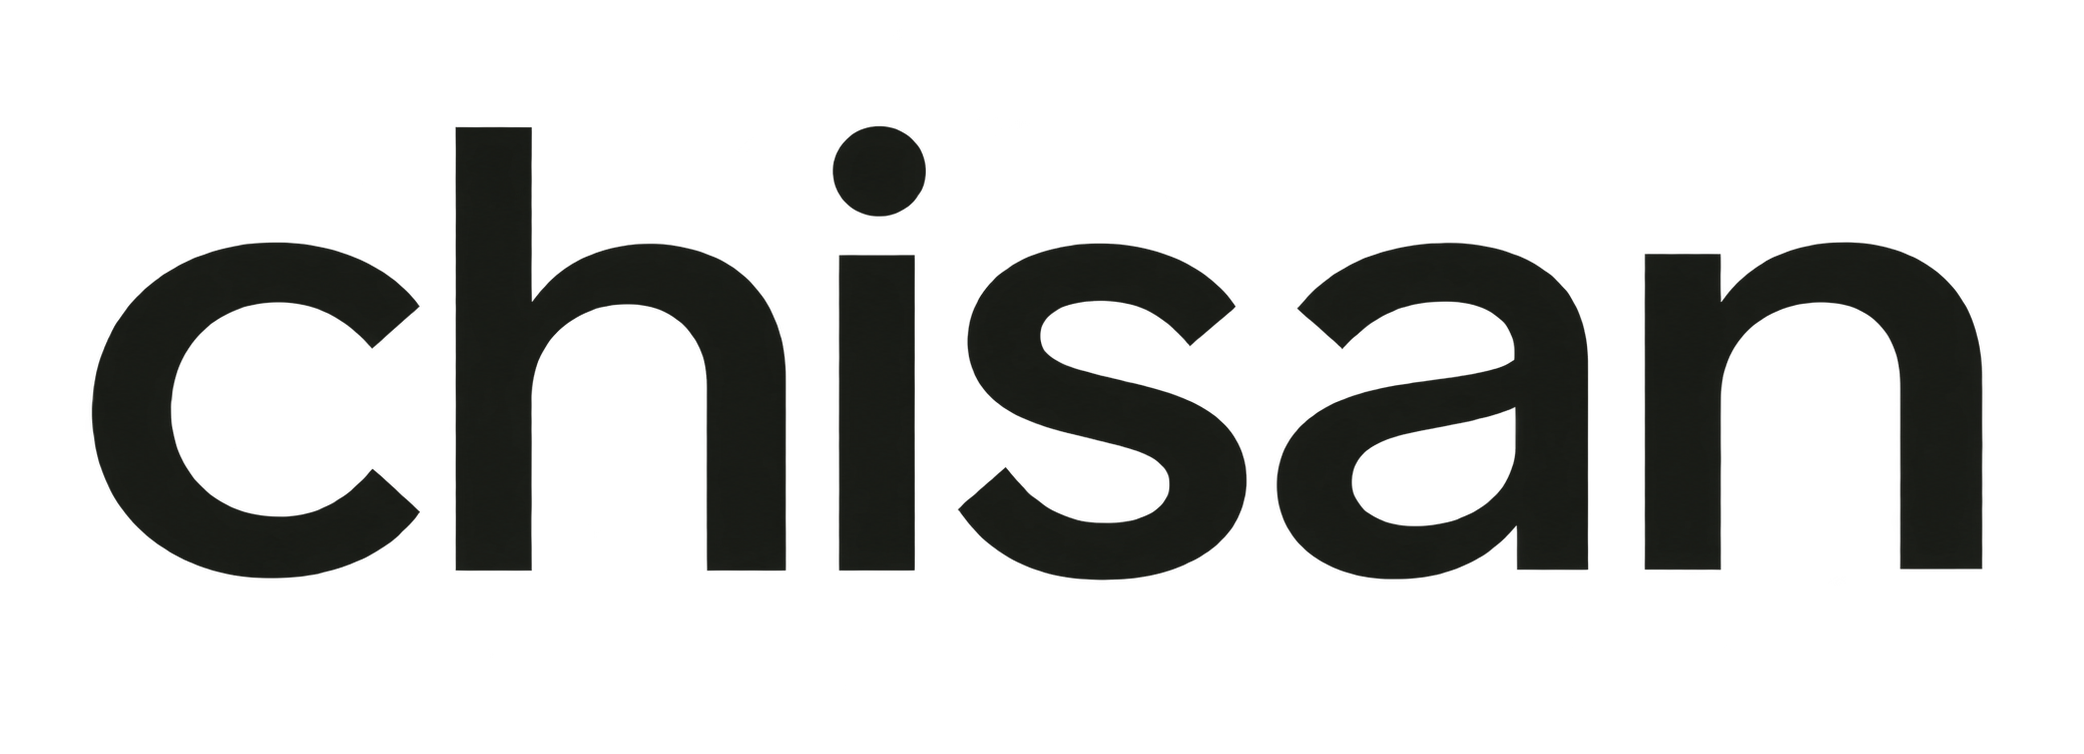
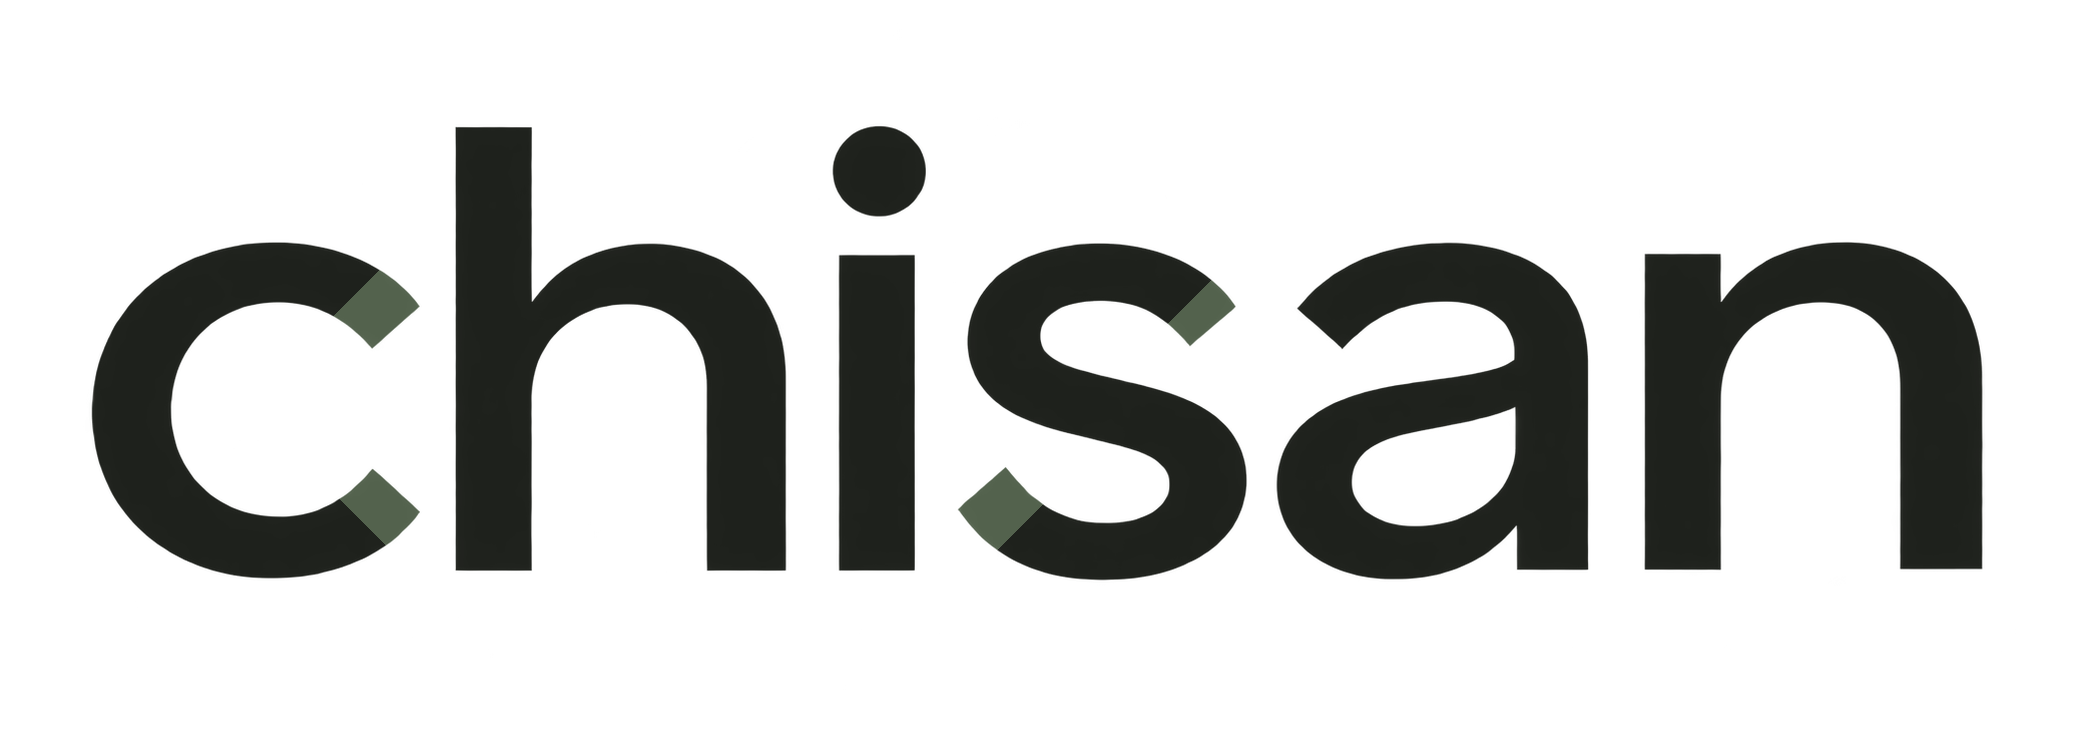
feat(brand): add terminal accent identity

diff --git a/components/brand/chisan-brand.tsx b/components/brand/chisan-brand.tsx
@@ -2,6 +2,7 @@ import type { CSSProperties } from "react";
 
 import chisanMark from "@/design/brand/assets/chisan-mark-ink.png";
 import chisanWordmark from "@/design/brand/assets/chisan-wordmark-ink.png";
+import chisanWordmarkReverse from "@/design/brand/assets/chisan-wordmark-reverse.png";
 
 type BrandImageProps = Readonly<{
   alt?: string;
@@ -22,19 +23,16 @@ export function ChisanWordmark({
   className,
   reverse = false,
 }: BrandImageProps) {
+  const asset = reverse ? chisanWordmarkReverse : chisanWordmark;
   const style: BrandAssetStyle = {
-    "--chisan-brand-asset": `url("${chisanWordmark.src}")`,
+    "--chisan-brand-asset": `url("${asset.src}")`,
   };
 
   return (
     <span
       aria-hidden={alt ? undefined : true}
       aria-label={alt || undefined}
-      className={classNames(
-        "chisan-wordmark",
-        reverse && "chisan-wordmark--reverse",
-        className,
-      )}
+      className={classNames("chisan-wordmark", className)}
       role={alt ? "img" : undefined}
       style={style}
     />

diff --git a/design/README.md b/design/README.md
@@ -171,14 +171,24 @@ point. Fixed detail points are non-essential map context.
 
 The lower-case wordmark **chisan** is the logo, shipped as a raster. The compact
 `c` is a crop of it, for favicons, avatars and square icons only — never beside
-the wordmark.
+the wordmark. Short `moss` caps mark both terminals of the compact `c`; the
+wordmark repeats that signature only on the natural terminals of `c` and `s`.
 
 - Wordmark above 88px of width, glyph below. Minimums: 88px and 16px.
-- Clear space: one glyph stroke width. `ink`, reversed on rice paper or white.
+- Clear space: one glyph stroke width. The primary body is `ink`; the reversed
+  body is `surface`. Both retain the `moss` terminal caps.
 - Tagline stays separate live text. Never redraw the logo in font, CSS or SVG.
-- No containers, outlines, shadows, gradients or extra colours.
+- No containers, outlines, shadows, gradients or colours outside `ink`,
+  `surface` and the approved `moss` caps.
 - No food, leaf, map-pin, seal, torii, ensō, calligraphy, rising-sun or
   network-node motifs.
+
+Profile QR labels keep the code itself in `ink` on `surface`, with its full
+quiet zone and no logo overlay. The producer label has a `moss` outer rule; a
+public user's producer selection has an `ink` rule. Use the wordmark on the
+physical label and the compact `c` only as the square UI affordance that opens
+it. Neither treatment implies verification, ownership, premium status or a
+reviewed restaurant/shop classification.
 
 Sizing and alt text live in `components/brand/chisan-brand.tsx`. Give an image
 empty alt text when its link already has an accessible name.
@@ -220,20 +230,26 @@ From `references/v0.3/chisan-wordmark-first-board.png`, with an image model:
 
 > Isolate and faithfully recreate only **[the lowercase `chisan` wordmark |
 > the compact `c`]** from the board as a crisp, high-resolution transparent PNG
-> in solid ink `#1D201B`. Preserve **[the custom lowercase proportions, open
-> `c`, wide geometric rhythm, single-storey `a` and optical spacing | its open
-> circular form, diagonal-cut terminals, weight, aperture and 16px
-> legibility]**. Include no background, tagline, symbol, container, border,
-> shadow, gradient, labels or extra text.
+> with an `ink` `#1D201B` body. Preserve **[the custom lowercase proportions,
+> open `c`, wide geometric rhythm, single-storey `a` and optical spacing | its
+> open circular form, diagonal-cut terminals, weight, aperture and 16px
+> legibility]**. Recolour only **[the four natural terminals of `c` and `s` |
+> the two terminals of `c`]** with equal short `moss` `#52614C` caps. Keep every
+> other pixel and the alpha silhouette unchanged. Include no background,
+> tagline, symbol, container, border, shadow, gradient, labels or extra text.
 
-The two production RGBA rasters were generated with OpenAI image generation
-from approved option 1 of that board. They remain image assets rather than a
-live-font, CSS or SVG approximation.
+The terminal-accent references were generated with OpenAI image generation
+from the approved mark and wordmark. The production rasters preserve the prior
+alpha geometry, use only the exact `ink`, `surface` and `moss` colours, and
+remain image assets rather than a live-font, CSS or SVG approximation.
 
 ## References
 
 - `v0.3/chisan-wordmark-first-board.png` — approved direction and source of the
   production rasters.
+- `v0.3/chisan-terminal-accent-mark-reference.png` — approved two-cap compact mark.
+- `v0.3/chisan-terminal-accent-wordmark-reference.png` — approved restrained
+  `c`/`s` treatment.
 - `v0.3/chisan-marker-join-board.png` — The Join marker, superseded by map circles.
 - `v0.2/` — earlier board and functional mark.
 - `inspiration-giftee-home.png` — capture of <https://giftee.co.jp/> on

diff --git a/design/qa/design-qa.md b/design/qa/design-qa.md
@@ -4,6 +4,31 @@ One entry per reviewed surface: what was decided, what was rejected, and why.
 Not a checklist — that lives in [`../README.md`](../README.md). Reference only
 evidence committed to this repo; local capture paths rot.
 
+## 2026-09-01 — Terminal-accent brand family
+
+final result: passed
+
+Compared the two approved ImageGen references with the production rasters in
+`chisan-brand-terminal-accent-comparison.png`, then reviewed the wordmark in the
+home header and footer. Focused implementation captures are stored beside this
+log.
+
+- The compact `c` keeps its original alpha silhouette and uses exactly two
+  short `moss` terminal caps. The wordmark repeats the treatment only on the
+  four natural terminals of `c` and `s`; `h`, `i`, `a` and `n` stay `ink`.
+- The reverse raster uses `surface` for the letterforms and retains the same
+  `moss` caps, avoiding a CSS filter that would recolour the signature.
+- The favicon contains 16, 32, 48 and 256px PNG frames generated from the
+  compact mark. All three production rasters contain only their approved body
+  colour, `moss` and alpha.
+- The first comparison found a P2 dark edge around several green terminals.
+  Rebuilding the colour mask against the original raster geometry removed it;
+  the second comparison has clean diagonal joins at every size.
+
+Rejected: colouring every letter, enlarging the terminal caps into wedges,
+putting green inside QR modules, and filtering the reverse logo into a single
+colour.
+
 ## 2026-09-01 — Spain-first project summary
 
 final result: passed
